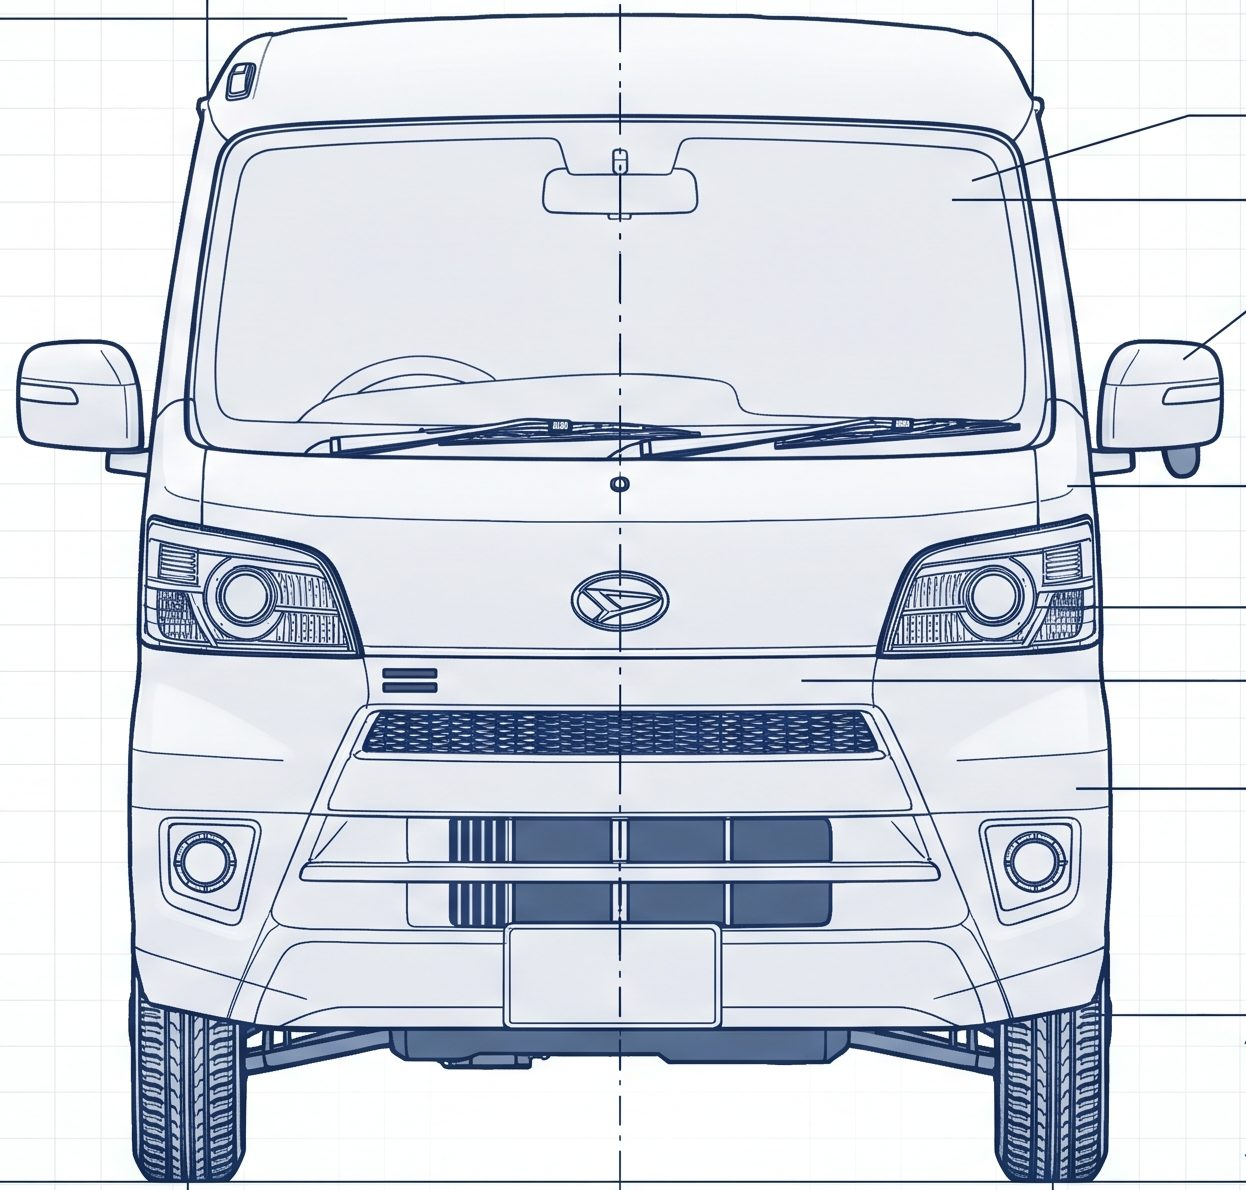
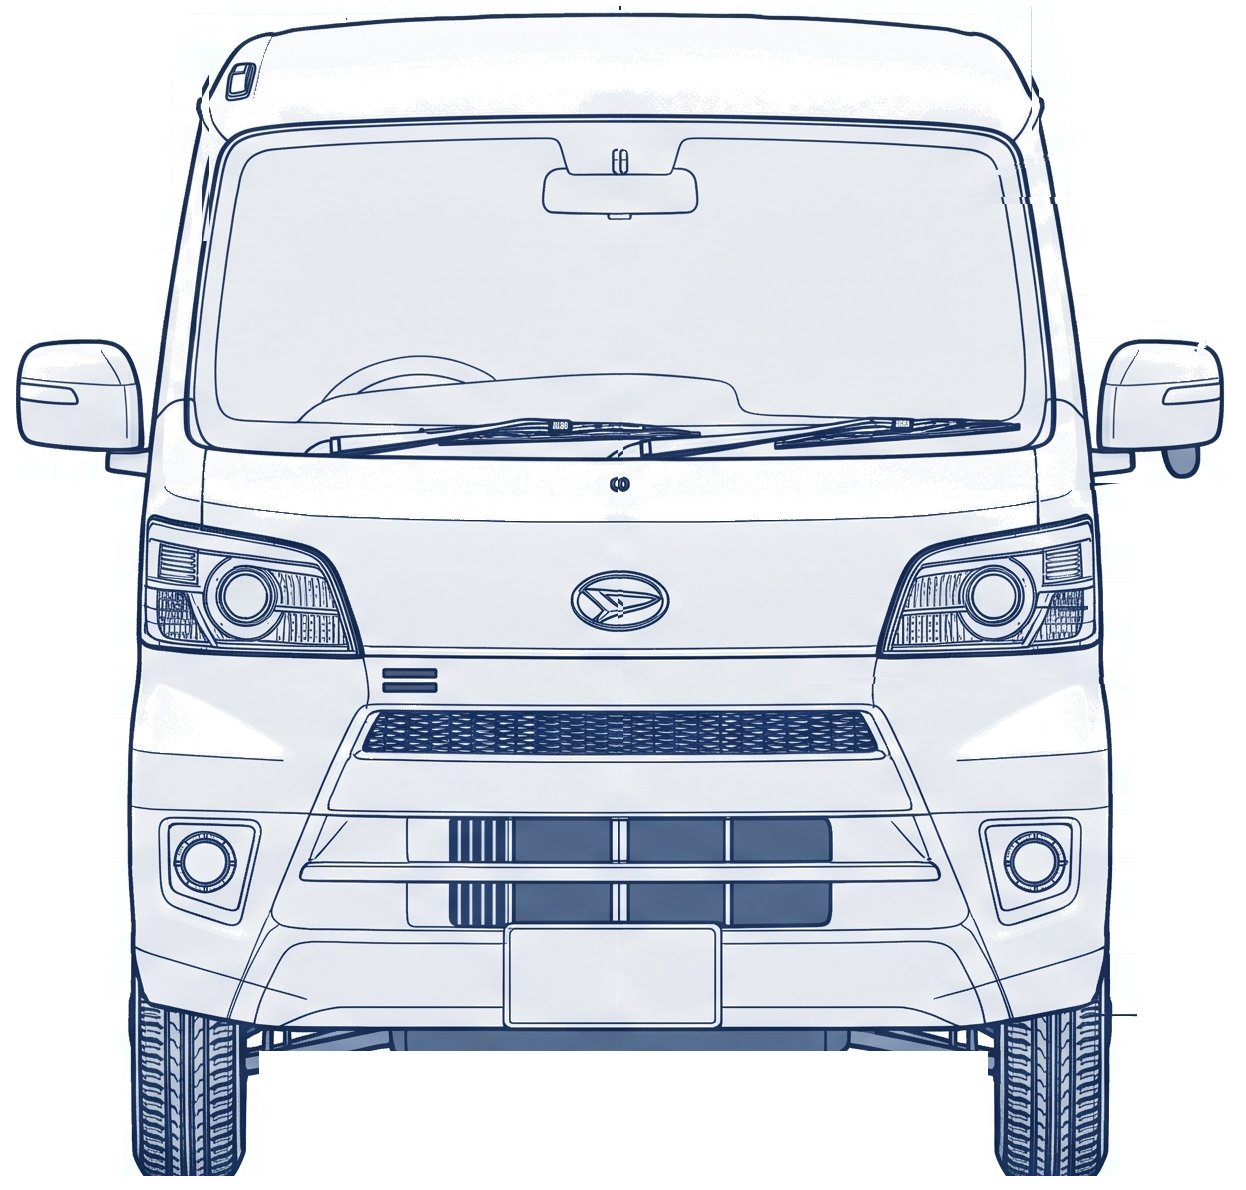
図面画像から寸法線・引き出し線・方眼・注記を消す
- tools/clean_blueprints.py: 車の外側を白に、方眼を除去、引き出し線は位置合わせ + 両脇からの補間で消す
- 窓の中の「Height」「HIGH-MOUNTED STOP LAMP」の文字、車輪の中心線、車体脇の点線も除去
- img/ は同スクリプトで再生成できる

diff --git a/tools/clean_blueprints.py b/tools/clean_blueprints.py
@@ -1,0 +1,381 @@
+# 図面画像(reference/)から車の絵だけを残す: 車の外側を白に、方眼線を除去、車の中の引き出し線・注記を消す。
+# 実行: python3 tools/clean_blueprints.py   → img/*.jpg を書き出す
+from PIL import Image, ImageDraw
+import math, pathlib
+
+K = 2816 / 2000   # 表示座標(2000 幅)→ 元画像
+CROPS = {         # 表示座標でのクロップ枠(regions2d.js と同じ)
+    'side':  (255, 128, 1725, 895),
+    'front': (560, 120, 1445, 965),
+    'rear':  (625, 115, 1375, 945),
+    'top':   (440, 215, 1680, 850),
+}
+SRC = {'side': 'reference/every-side.jpg', 'front': 'reference/every-front.jpg', 'rear': 'reference/every-rear.jpg', 'top': 'reference/every-top.jpg'}
+
+def crop(key, max_w=1400, rotate=None):
+    im = Image.open(SRC[key]).convert('RGB')
+    x0, y0, x1, y1 = [v * K for v in CROPS[key]]
+    im = im.crop((int(x0), int(y0), int(x1), int(y1)))
+    if rotate: im = im.rotate(rotate, expand=True)
+    s = min(1.0, max_w / im.width)
+    if s < 1: im = im.resize((round(im.width * s), round(im.height * s)), Image.LANCZOS)
+    return im
+
+def lum(p): return (p[0] * 299 + p[1] * 587 + p[2] * 114) // 1000
+
+def keep_only(im, poly):
+    """多角形の外側を白にする。"""
+    mask = Image.new('L', im.size, 0)
+    ImageDraw.Draw(mask).polygon(poly, fill=255)
+    white = Image.new('RGB', im.size, (255, 255, 255))
+    return Image.composite(im, white, mask)
+
+def remove_grid(im):
+    """薄い細線(方眼)を消す: 明るめの画素で、左右または上下 3px 先が両方ほぼ白なら白にする。"""
+    w, h = im.size
+    px = im.load()
+    out = im.copy(); op = out.load()
+    for y in range(3, h - 3):
+        for x in range(3, w - 3):
+            l = lum(px[x, y])
+            if 140 <= l <= 246:
+                if (lum(px[x - 3, y]) > 240 and lum(px[x + 3, y]) > 240) or (lum(px[x, y - 3]) > 240 and lum(px[x, y + 3]) > 240):
+                    op[x, y] = (255, 255, 255)
+    return out
+
+def clone_segment(im, p0, p1, width=2, offset=(0, -6)):
+    """線分の上の画素を、offset だけずらした位置の画素で置き換える(細い線を周囲の色で埋める)。"""
+    px = im.load(); w, h = im.size
+    (x0, y0), (x1, y1) = p0, p1
+    n = int(max(abs(x1 - x0), abs(y1 - y0))) + 1
+    dx, dy = x1 - x0, y1 - y0
+    L = math.hypot(dx, dy) or 1
+    nx, ny = -dy / L, dx / L   # 法線
+    src = {}
+    for i in range(n):
+        t = i / max(1, n - 1)
+        cx, cy = x0 + dx * t, y0 + dy * t
+        for k in range(-width, width + 1):
+            x, y = int(round(cx + nx * k)), int(round(cy + ny * k))
+            sx, sy = x + offset[0], y + offset[1]
+            if 0 <= x < w and 0 <= y < h and 0 <= sx < w and 0 <= sy < h:
+                src[(x, y)] = px[sx, sy]
+    for (x, y), c in src.items(): px[x, y] = c
+
+def fill_rows(im, x0, x1, y0, y1, sample_x):
+    """矩形の各行を、sample_x の画素の色で塗る(窓の中の文字を消す)。"""
+    px = im.load()
+    for y in range(y0, y1 + 1):
+        c = px[sample_x, y]
+        for x in range(x0, x1 + 1): px[x, y] = c
+
+def find_row(im, y_approx, x0, x1, search=8):
+    """x0..x1 の範囲で最も暗い行を y_approx±search から探す(横線の正確な y)。"""
+    px = im.load(); best, by = 1e9, y_approx
+    for y in range(y_approx - search, y_approx + search + 1):
+        m = sum(lum(px[x, y]) for x in range(x0, x1, 2))
+        if m < best: best, by = m, y
+    return by
+
+def find_col(im, x_approx, y0, y1, search=8):
+    px = im.load(); best, bx = 1e9, x_approx
+    for x in range(x_approx - search, x_approx + search + 1):
+        m = sum(lum(px[x, y]) for y in range(y0, y1, 2))
+        if m < best: best, bx = m, x
+    return bx
+
+def erase_hline(im, y_approx, x0, x1, offset_y=-8, width=3):
+    y = find_row(im, y_approx, x0, x1)
+    clone_segment(im, (x0, y), (x1, y), width=width, offset=(0, offset_y))
+
+def erase_vline(im, x_approx, y0, y1, offset_x=-8, width=3):
+    x = find_col(im, x_approx, y0, y1)
+    clone_segment(im, (x, y0), (x, y1), width=width, offset=(offset_x, 0))
+
+def erase_band(im, p0, p1, half=8, thr=205, reach=12):
+    """線分の周囲 ±half px の帯の中で、暗い画素だけを「帯の外側(法線方向 ±reach)の明るい方の色」で埋める。
+    斜めの引き出し線のように位置が数 px ずれていても消せる。"""
+    px = im.load(); w, h = im.size
+    (x0, y0), (x1, y1) = p0, p1
+    dx, dy = x1 - x0, y1 - y0
+    L = math.hypot(dx, dy) or 1
+    nx, ny = -dy / L, dx / L
+    n = int(L) + 1
+    done = set()
+    for i in range(n):
+        t = i / max(1, n - 1)
+        cx, cy = x0 + dx * t, y0 + dy * t
+        for k in range(-half, half + 1):
+            x, y = int(round(cx + nx * k)), int(round(cy + ny * k))
+            if (x, y) in done or not (0 <= x < w and 0 <= y < h): continue
+            done.add((x, y))
+            if lum(px[x, y]) >= thr: continue
+            cands = []
+            for sgn in (1, -1):
+                sx, sy = int(round(x + nx * reach * sgn)), int(round(y + ny * reach * sgn))
+                if 0 <= sx < w and 0 <= sy < h: cands.append(px[sx, sy])
+            if cands: px[x, y] = max(cands, key=lum)
+
+def dotted_col(im, x0, x1, y0, y1, thr=228):
+    """点線の縦線: 範囲内で「thr より暗い画素の数」が最も多い列。"""
+    px = im.load()
+    return max(range(x0, x1 + 1), key=lambda x: sum(lum(px[x, y]) < thr for y in range(y0, y1 + 1)))
+
+def dotted_row(im, y0, y1, x0, x1, thr=228):
+    px = im.load()
+    return max(range(y0, y1 + 1), key=lambda y: sum(lum(px[x, y]) < thr for x in range(x0, x1 + 1)))
+
+def erase_col(im, x, y0, y1, width=2, offset=8):
+    clone_segment(im, (x, y0), (x, y1), width=width, offset=(offset, 0))
+
+def erase_row(im, y, x0, x1, width=2, offset=-8):
+    clone_segment(im, (x0, y), (x1, y), width=width, offset=(0, offset))
+
+def band_mean(im, p0, p1, half):
+    px = im.load(); w, h = im.size
+    (x0, y0), (x1, y1) = p0, p1
+    dx, dy = x1 - x0, y1 - y0; L = math.hypot(dx, dy) or 1; nx, ny = -dy / L, dx / L
+    tot = cnt = 0
+    for i in range(int(L) + 1):
+        t = i / max(1, int(L)); cx, cy = x0 + dx * t, y0 + dy * t
+        for k in range(-half, half + 1):
+            x, y = int(round(cx + nx * k)), int(round(cy + ny * k))
+            if 0 <= x < w and 0 <= y < h: tot += lum(px[x, y]); cnt += 1
+    return tot / max(1, cnt)
+
+def erase_diag(im, p0, p1, width=6, dist=16):
+    """斜めの線を、線に直交する向きに dist だけ離れた(より明るい側の)帯の色で埋める。"""
+    (x0, y0), (x1, y1) = p0, p1
+    dx, dy = x1 - x0, y1 - y0; L = math.hypot(dx, dy) or 1; nx, ny = -dy / L, dx / L
+    best = None
+    for sgn in (1, -1):
+        off = (nx * dist * sgn, ny * dist * sgn)
+        m = band_mean(im, (x0 + off[0], y0 + off[1]), (x1 + off[0], y1 + off[1]), width)
+        if best is None or m > best[0]: best = (m, off)
+    clone_segment(im, p0, p1, width=width, offset=(int(round(best[1][0])), int(round(best[1][1]))))
+
+def thin_cols(im, x0, x1, y0, y1, thr=236, n=2, minfrac=0.02):
+    """細い縦線(点線を含む)の列を、暗い画素の数が多い順に n 本返す。隣接列はまとめる。"""
+    px = im.load()
+    score = {x: sum(lum(px[x, y]) < thr for y in range(y0, y1 + 1)) for x in range(x0, x1 + 1)}
+    picked = []
+    for x in sorted(score, key=lambda x: -score[x]):
+        if score[x] < (y1 - y0) * minfrac: break
+        if all(abs(x - q) > 2 for q in picked): picked.append(x)
+        if len(picked) >= n: break
+    return picked
+
+def erase_thin_cols(im, x0, x1, y0, y1, py0, py1, n=2, width=1, thr=236):
+    """x0..x1 の範囲にある細い縦線を消す。色は左右どちらか明るい側の列から写す。"""
+    px = im.load()
+    out = []
+    for x in thin_cols(im, x0, x1, py0, py1, thr=thr, n=n):
+        best = None
+        for off in (8, -8, 12, -12, 16, -16):
+            sx = x + off
+            if not (0 <= sx < im.size[0]): continue
+            m = sum(lum(px[sx, y]) for y in range(py0, py1 + 1)) / (py1 - py0 + 1)
+            if best is None or m > best[0]: best = (m, off)
+        clone_segment(im, (x, y0), (x, y1), width=width, offset=(best[1], 0))
+        out.append(x)
+    return out
+
+def erase_thin_in_poly(im, poly, lo=60, hi=226, guard=60, win=5):
+    """多角形の中で、中間の濃さ(lo <= 明度 < hi)の画素 = 細い引き出し線・点線だけを、周囲の地の色で埋める。
+    濃い車体の線(明度 < guard)とその隣の画素は触らない。"""
+    px = im.load(); w, h = im.size
+    mask = Image.new('L', im.size, 0)
+    ImageDraw.Draw(mask).polygon(poly, fill=255)
+    mp = mask.load()
+    xs = [q[0] for q in poly]; ys = [q[1] for q in poly]
+    targets = []
+    for y in range(max(1, min(ys)), min(h - 1, max(ys) + 1)):
+        for x in range(max(1, min(xs)), min(w - 1, max(xs) + 1)):
+            if not mp[x, y]: continue
+            l = lum(px[x, y])
+            if not (lo <= l < hi): continue
+            if any(lum(px[x + i, y + j]) < guard for i in (-1, 0, 1) for j in (-1, 0, 1)): continue
+            targets.append((x, y))
+    for x, y in targets:
+        acc = [0, 0, 0]; n = 0
+        for j in range(-win, win + 1):
+            for i in range(-win, win + 1):
+                sx, sy = x + i, y + j
+                if 0 <= sx < w and 0 <= sy < h and lum(px[sx, sy]) >= hi:
+                    c = px[sx, sy]; acc[0] += c[0]; acc[1] += c[1]; acc[2] += c[2]; n += 1
+        if n: px[x, y] = (acc[0] // n, acc[1] // n, acc[2] // n)
+    return len(targets)
+
+def line_mean(im, p0, p1):
+    px = im.load(); w, h = im.size
+    (x0, y0), (x1, y1) = p0, p1
+    n = int(max(abs(x1 - x0), abs(y1 - y0))) + 1
+    tot = cnt = 0
+    for i in range(n):
+        t = i / max(1, n - 1)
+        x, y = int(round(x0 + (x1 - x0) * t)), int(round(y0 + (y1 - y0) * t))
+        if 0 <= x < w and 0 <= y < h: tot += lum(px[x, y]); cnt += 1
+    return tot / max(1, cnt)
+
+def snap_line(im, p0, p1, search=6):
+    """両端を法線方向に ±search px ずらして、最も暗くなる位置(= 実際の線)に合わせる。"""
+    (x0, y0), (x1, y1) = p0, p1
+    dx, dy = x1 - x0, y1 - y0; L = math.hypot(dx, dy) or 1; nx, ny = -dy / L, dx / L
+    best = None
+    for a in range(-search, search + 1):
+        for b in range(-search, search + 1):
+            q0 = (x0 + nx * a, y0 + ny * a); q1 = (x1 + nx * b, y1 + ny * b)
+            m = line_mean(im, q0, q1)
+            if best is None or m < best[0]: best = (m, q0, q1)
+    return best[1], best[2], best[0]
+
+def erase_line_interp(im, p0, p1, half=2, reach=4, snap=6, trim=0):
+    """濃い細い直線を消す。位置を snap で合わせ、線の帯(±half)の各画素を、法線方向 ±reach の両脇の画素の平均で埋める。
+    車体の線と交差する所は両脇も濃いので、車体の線は残る。trim で両端を少し短くできる。"""
+    q0, q1, m = snap_line(im, p0, p1, snap) if snap else (p0, p1, None)
+    px = im.load(); w, h = im.size
+    (x0, y0), (x1, y1) = q0, q1
+    dx, dy = x1 - x0, y1 - y0; L = math.hypot(dx, dy) or 1; ux, uy = dx / L, dy / L; nx, ny = -dy / L, dx / L
+    x0, y0, x1, y1 = x0 + ux * trim, y0 + uy * trim, x1 - ux * trim, y1 - uy * trim
+    src = {}
+    n = int(L) + 1
+    for i in range(n):
+        t = i / max(1, n - 1); cx, cy = x0 + dx * t, y0 + dy * t
+        for k in range(-half, half + 1):
+            x, y = int(round(cx + nx * k)), int(round(cy + ny * k))
+            if not (0 <= x < w and 0 <= y < h) or (x, y) in src: continue
+            a = (int(round(cx + nx * (reach + half))), int(round(cy + ny * (reach + half))))
+            b = (int(round(cx - nx * (reach + half))), int(round(cy - ny * (reach + half))))
+            cols = [px[q] for q in (a, b) if 0 <= q[0] < w and 0 <= q[1] < h]
+            if cols: src[(x, y)] = tuple(sum(c[i] for c in cols) // len(cols) for i in range(3))
+    for q, c in src.items(): px[q] = c
+    return round(m) if m is not None else None
+
+def erase_specks_in_poly(im, poly, dark=215, max_cluster=6, win=4):
+    """多角形の中の「孤立した暗い点」(5x5 の中に暗い画素が max_cluster 個以下)を、周囲の明るい画素の平均で埋める。
+    太い車体の線は 5x5 に暗い画素が多いので残る。"""
+    px = im.load(); w, h = im.size
+    mask = Image.new('L', im.size, 0)
+    ImageDraw.Draw(mask).polygon(poly, fill=255)
+    mp = mask.load()
+    xs = [q[0] for q in poly]; ys = [q[1] for q in poly]
+    targets = []
+    for y in range(max(2, min(ys)), min(h - 2, max(ys) + 1)):
+        for x in range(max(2, min(xs)), min(w - 2, max(xs) + 1)):
+            if not mp[x, y] or lum(px[x, y]) >= dark: continue
+            c = sum(lum(px[x + i, y + j]) < dark for i in range(-2, 3) for j in range(-2, 3))
+            if c <= max_cluster: targets.append((x, y))
+    for x, y in targets:
+        acc = [0, 0, 0]; n = 0
+        for j in range(-win, win + 1):
+            for i in range(-win, win + 1):
+                sx, sy = x + i, y + j
+                if 0 <= sx < w and 0 <= sy < h and lum(px[sx, sy]) >= 236:
+                    c = px[sx, sy]; acc[0] += c[0]; acc[1] += c[1]; acc[2] += c[2]; n += 1
+        if n: px[x, y] = (acc[0] // n, acc[1] // n, acc[2] // n)
+    return len(targets)
+
+def erase_leader(im, p0, p1, half=3, snap=8, band=7):
+    """濃い引き出し線を消す: 位置合わせ + 両脇からの補間 → 残った縁(中間色)を地の色で埋める。"""
+    q0, q1, m = snap_line(im, p0, p1, snap)
+    erase_line_interp(im, q0, q1, half=half, reach=4, snap=0)
+    (x0, y0), (x1, y1) = q0, q1
+    dx, dy = x1 - x0, y1 - y0; L = math.hypot(dx, dy) or 1; nx, ny = -dy / L * band, dx / L * band
+    poly = [(x0 + nx, y0 + ny), (x1 + nx, y1 + ny), (x1 - nx, y1 - ny), (x0 - nx, y0 - ny)]
+    poly = [(int(round(a)), int(round(b))) for a, b in poly]
+    n = erase_thin_in_poly(im, poly, lo=60, hi=234, guard=60, win=4)
+    n2 = erase_specks_in_poly(im, poly)
+    return (round(m), n, n2)
+
+def darkest_col(im, x0, x1, y0, y1):
+    px = im.load()
+    return min(range(x0, x1 + 1), key=lambda x: sum(lum(px[x, y]) for y in range(y0, y1 + 1)))
+
+def erase_dotted_col(im, x_approx, y0, y1, probe, search=10, width=2, offset=8):
+    """点線の縦線を消す。probe=(py0, py1) の範囲(背景が白い所)で最も暗い列を探し、その列を offset 先の色で埋める。"""
+    x = darkest_col(im, x_approx - search, x_approx + search, probe[0], probe[1])
+    clone_segment(im, (x, y0), (x, y1), width=width, offset=(offset, 0))
+    return x
+
+def save(im, path):
+    im.save(path, quality=85, optimize=True); print(path, im.size)
+
+# ---- 側面(1400x731) ----
+im = crop('side')
+im = keep_only(im, [(5, 40), (60, 16), (1000, 16), (1180, 38), (1262, 118), (1396, 330), (1396, 642), (1300, 642), (1300, 727), (1065, 727), (1065, 642), (360, 642), (360, 727), (120, 727), (120, 642), (5, 642)])
+im = remove_grid(im)
+fill_rows(im, 212, 278, 28, 286, 204)     # クォーター窓の「roof Height」
+fill_rows(im, 865, 917, 105, 290, 858)    # 前ドア窓の「Height」
+for y in range(299, 305): clone_segment(im, (30, y), (1300, y), width=0, offset=(0, 12))    # 車体を横切る破線(窓の下)
+for y in range(381, 397): clone_segment(im, (30, y), (1300, y), width=0, offset=(0, -16))   # 車体を横切る破線 2 本(ドア中央)
+for cx in (235, 1182):   # 車輪の中心線(点線、2 本並ぶことがある)
+    for _ in range(2):
+        x = dotted_col(im, cx - 10, cx + 10, 486, 730)
+        erase_col(im, x, 486, 730, width=2, offset=7)
+print('  side susp leaders:', erase_thin_in_poly(im, [(326, 636), (400, 636), (400, 690), (326, 690)]), erase_leader(im, (696, 616), (708, 646), half=2, snap=6))
+clone_segment(im, (41, 18), (41, 168), width=3, offset=(-8, 0))   # 後端の寸法補助線
+save(im, 'img/side.jpg')
+
+# ---- 正面(1246x1190) ----
+im = crop('front')
+im = keep_only(im, [(190, 6), (1050, 6), (1068, 70), (1088, 320), (1100, 330), (1224, 330), (1224, 480), (1130, 480), (1136, 1040), (1118, 1046), (1118, 1189), (988, 1189), (988, 1050), (258, 1050), (258, 1189), (122, 1189), (122, 1046), (110, 1040), (114, 480), (16, 480), (16, 330), (140, 330), (152, 320), (172, 70)])
+im = remove_grid(im)
+clone_segment(im, (620, 10), (620, 1185), width=2, offset=(-7, 0))   # 中心線
+print('  front wiper leader snap lum:', erase_leader(im, (972, 184), (1078, 150)))
+clone_segment(im, (945, 200), (1080, 200), width=3, offset=(0, -9))   # ドアハンドル(上)
+clone_segment(im, (1088, 607), (1136, 607), width=3, offset=(0, -9))  # ヘッドライト
+clone_segment(im, (798, 680), (1136, 680), width=3, offset=(0, -9))   # グリル
+clone_segment(im, (1076, 788), (1140, 788), width=3, offset=(0, -9))  # フロントバンパー
+clone_segment(im, (965, 486), (1136, 486), width=3, offset=(0, -9))   # ドアハンドル(下)
+print('  front mirror leader snap lum:', erase_leader(im, (1183, 362), (1224, 332)))
+clone_segment(im, (205, 0), (205, 240), width=3, offset=(9, 0))       # 寸法補助線(左上)
+clone_segment(im, (1035, 0), (1035, 130), width=3, offset=(-9, 0))    # 寸法補助線(右上)
+ImageDraw.Draw(im).rectangle([105, 1176, 275, 1189], fill=(255, 255, 255))   # タイヤ下の基準線
+ImageDraw.Draw(im).rectangle([975, 1176, 1135, 1189], fill=(255, 255, 255))
+ImageDraw.Draw(im).rectangle([180, 16, 345, 22], fill=(255, 255, 255))         # 屋根の上の寸法線
+save(im, 'img/front.jpg')
+
+# ---- 背面(1056x1169) ----
+im = crop('rear')
+im = keep_only(im, [(130, 18), (930, 18), (946, 40), (952, 378), (1032, 378), (1032, 482), (952, 482), (956, 930), (942, 936), (942, 1168), (858, 1168), (858, 1066), (200, 1066), (200, 1168), (104, 1168), (104, 936), (94, 930), (100, 482), (20, 482), (20, 378), (100, 378), (108, 40)])
+im = remove_grid(im)
+clone_segment(im, (528, 10), (528, 1165), width=2, offset=(-7, 0))   # 中心線
+fill_rows(im, 312, 745, 174, 222, 300)                               # 窓の中の「HIGH-MOUNTED STOP LAMP」
+clone_segment(im, (712, 325), (952, 325), width=3, offset=(0, -9))   # リアワイパーの引き出し線
+clone_segment(im, (92, 478), (364, 478), width=3, offset=(0, -9))    # テールゲートハンドル
+clone_segment(im, (712, 550), (952, 550), width=3, offset=(0, -9))   # テールランプ
+clone_segment(im, (92, 695), (480, 695), width=3, offset=(0, -9))    # ナンバープレート
+print('  rear himount leader:', erase_leader(im, (586, 124), (632, 164)), erase_leader(im, (634, 163), (955, 163), snap=6), erase_specks_in_poly(im, [(578, 118), (600, 112), (646, 160), (640, 176)], dark=228, max_cluster=8))
+clone_segment(im, (628, 163), (956, 163), width=3, offset=(0, -9))   # 同(横)
+print('  rear side dotted cols:', erase_thin_cols(im, 103, 117, 160, 1062, 200, 600, n=3), erase_thin_cols(im, 941, 957, 160, 1062, 200, 600, n=3))
+clone_segment(im, (20, 478), (98, 478), width=3, offset=(0, -9))     # ミラー脇の線(左)
+clone_segment(im, (958, 478), (1034, 478), width=3, offset=(0, -9))  # ミラー脇の線(右)
+erase_band(im, (92, 838), (166, 878), half=9)                        # 後バンパーの引き出し線(左)
+erase_band(im, (930, 856), (960, 832), half=9)                       # 同(右)
+print('  rear leaf leader:', erase_leader(im, (778, 1015), (852, 1067)), erase_leader(im, (770, 1005), (845, 1050)), erase_leader(im, (853, 1066), (955, 1066), snap=6))
+clone_segment(im, (704, 621), (956, 621), width=3, offset=(0, -9))   # 右からの引き出し線(シャシー)
+clone_segment(im, (797, 629), (956, 629), width=3, offset=(0, 9))    # 同(燃料タンク)
+clone_segment(im, (92, 691), (400, 691), width=3, offset=(0, -9))    # ナンバープレートの引き出し線(y 691)
+erase_row(im, dotted_row(im, 540, 556, 730, 940), 720, 956, width=3, offset=-9)   # テールランプの引き出し線
+save(im, 'img/rear.jpg')
+
+# ---- 上面(894x1746、前が上) ----
+im = crop('top', rotate=-90)
+im = keep_only(im, [(58, 0), (836, 0), (836, 518), (892, 518), (892, 612), (842, 612), (842, 1746), (52, 1746), (52, 612), (6, 612), (6, 518), (58, 518)])
+im = remove_grid(im)
+print('  top center cols:', erase_thin_cols(im, 426, 446, 0, 1745, 100, 1500, n=3, thr=243))   # 中心線(ごく薄い点線)
+clone_segment(im, (217, 0), (217, 330), width=2, offset=(8, 0))      # トレッドの寸法線(左)
+clone_segment(im, (665, 0), (665, 330), width=2, offset=(-8, 0))     # 同(右)
+clone_segment(im, (134, 0), (134, 200), width=2, offset=(8, 0))      # 寸法線(左)
+clone_segment(im, (800, 0), (800, 600), width=2, offset=(-8, 0))     # 寸法線(右)
+for y0, y1, py0, py1 in ((0, 880, 150, 450), (860, 1745, 1000, 1300)):   # 車体脇の点線(上半分・下半分)
+    print('  top edge cols:', erase_thin_cols(im, 44, 68, y0, y1, py0, py1, n=3), erase_thin_cols(im, 812, 846, y0, y1, py0, py1, n=4), erase_thin_cols(im, 812, 846, y0, y1, py0, py1, n=2, thr=242))
+save(im, 'img/top.jpg')
+
+# ---- 座標を調べるとき ----
+# from PIL import ImageDraw; 50px 格子と座標ラベルを重ねた画像を書き出して読むと、線の位置が読める。例:
+#   im = Image.open('img/rear.jpg'); d = ImageDraw.Draw(im)
+#   for x in range(0, im.width, 50): d.line([(x,0),(x,im.height)], fill=(0,180,0))
+#   for y in range(0, im.height, 50): d.line([(0,y),(im.width,y)], fill=(0,180,0))
+# 濃い直線は erase_leader(im, p0, p1)(位置は自動で合う)、点線の縦線は erase_thin_cols、
+# 薄い中間色の線は erase_thin_in_poly、孤立した点は erase_specks_in_poly を使う。

diff --git a/docs/進捗.md b/docs/進捗.md
@@ -13,6 +13,7 @@
 
 - 2026-10-19 に 3D(Three.js / Blender)をいったんやめ、2D の 5 面図(左側面・右側面・上面・正面・背面)にした。3D のコードは git 履歴(コミット 5bc6b75 まで)に残っている
 - 図は reference/ の図面画像を切り出した `img/side.jpg`・`front.jpg`・`rear.jpg`・`top.jpg`(top は前が上になるよう 90° 回転)。左側面は side.jpg を左右反転して使う
+- img/ は `python3 tools/clean_blueprints.py` で生成する(車の外側を白に、方眼を除去、寸法線・引き出し線・窓の中の注記を個別に消す)。消す線の座標はスクリプト内に直書き。直すときは座標格子付きの画像を書き出して読む(スクリプト末尾のコメント参照)
 - その上に透明な部位の領域を重ねる。領域の座標(画像ピクセル)は `js/regions2d.js`。描画は `js/views2d.js`
   - 領域を直すときは、元の表示座標(2000 幅の画像での座標)で考えて python で変換するのが楽。変換式: 元画像 = 表示 × 1.408、クロップ枠を引く、top は (x, y) → (H − y, x)、最後に縮小率を掛ける(side のみ 0.677)
   - 側面の領域は wheel_f / wheel_r / mirror / side という汎用 ID で、左右に応じて _l / _r を付ける
